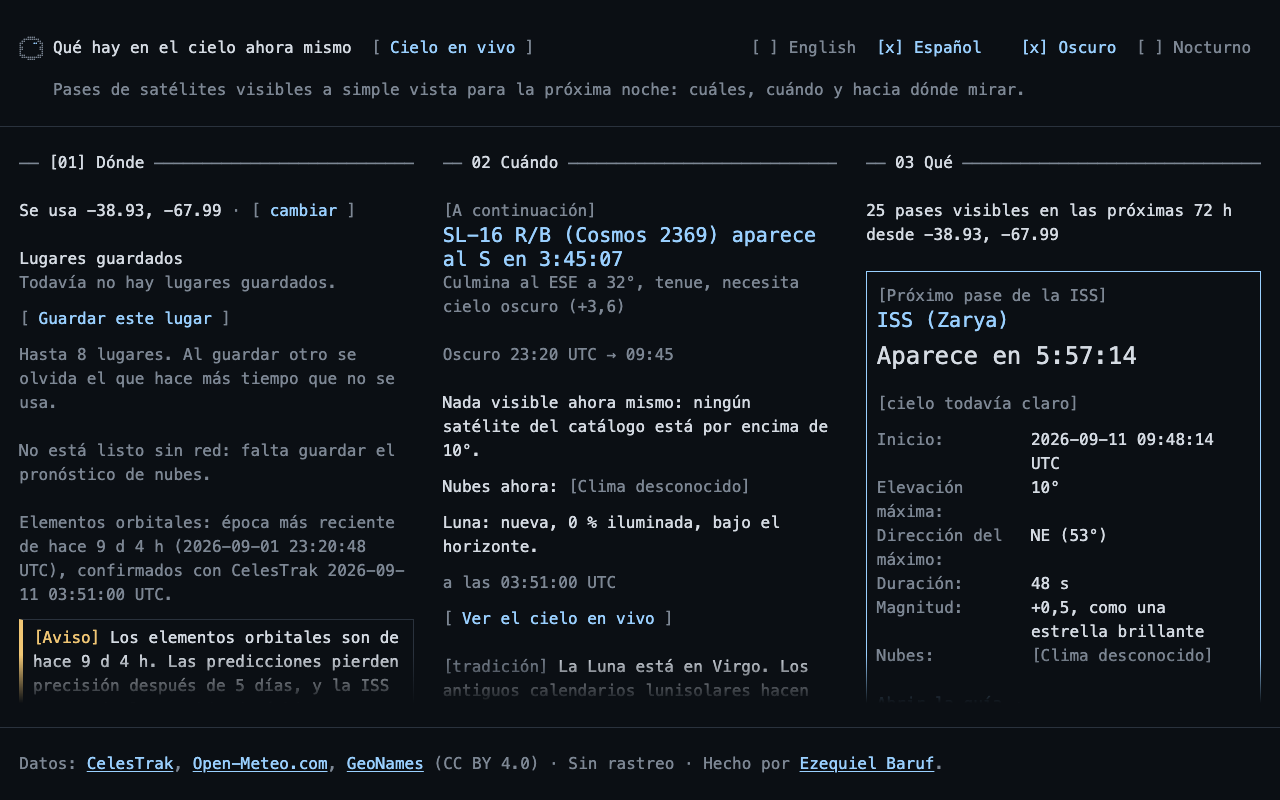
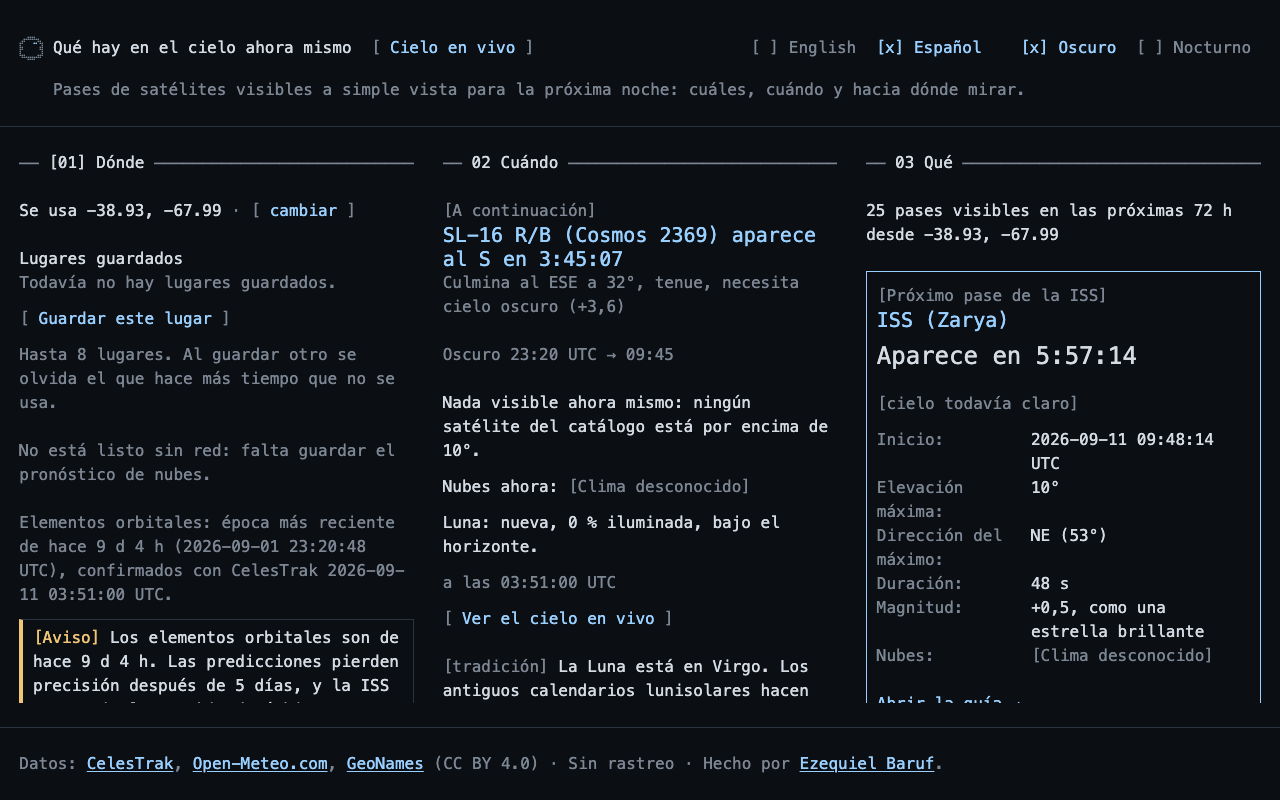
R76: withdraw the pane fade — it pushed CI's e2e past the ten-minute cap (D-503)

Changed region(s): [[0.3438, 0.8125, 0.625, 0.875], [0.0, 0.8438, 0.3125, 0.875]]

diff --git a/src/ui/App.module.css b/src/ui/App.module.css
@@ -266,22 +266,6 @@
     display: none;
   }
 
-  /* At the owner's gate: a pane that scrolls itself was cut at the footer's
-     rule mid-sentence, with nothing to say there was more. Where the browser
-     has scroll-driven animations the last two rows of a pane with more below
-     fade out, and fade back in as the reader reaches its end; where it has
-     not, the pane is as it was. The fade is a mask, so it is the text that
-     fades and not a colour laid over it, and it holds in both themes. */
-  @supports (animation-timeline: scroll()) {
-    .where,
-    .when,
-    .main[data-home='readings'] .listColumn {
-      mask-image: linear-gradient(to bottom, #000 calc(100% - var(--pane-fade)), transparent);
-      animation: pane-end linear both;
-      animation-timeline: scroll(self);
-    }
-  }
-
   .main[data-guide='pane'] [data-guide-panel] {
     grid-column: 1 / span 2;
     grid-row: 1;
@@ -319,25 +303,3 @@
   }
 }
 
-/* The fade's depth, animated from two rows to none across a pane's scroll. A
-   pane with nothing to scroll has an inactive timeline, so the animation does
-   not apply and the depth is its initial value: no fade. */
-@property --pane-fade {
-  syntax: '<length>';
-  inherits: false;
-  initial-value: 0px;
-}
-
-@keyframes pane-end {
-  from {
-    --pane-fade: calc(2 * var(--row));
-  }
-
-  95% {
-    --pane-fade: calc(2 * var(--row));
-  }
-
-  to {
-    --pane-fade: 0px;
-  }
-}

diff --git a/PLAN.md b/PLAN.md
@@ -696,7 +696,7 @@ These plan SPEC v2.0 (V20-1..V20-13). §16.15 reserved R73's block to D-437; v2.
 
 - **D-502 — The next event counts down on a clock, not in minutes.** (FR-FIRST-3, D-442, at the owner's gate.) D-442 said the block reuses `formatCountdown`, which rolls hours into minutes: a pass 3 h 45 min away read "in 225:07" while the hero card on the same page read "5:57:14" for its own. The block now uses `lib/format.formatClockDuration` — "m:ss" under an hour, "h:mm:ss" above — so the two readings agree, and the live page's headline (R77) inherits it from the same component. `formatCountdown` is unchanged and still the Now panel's, whose countdown is the minutes a pass has left. `nextEvent.test.ts` pins an instant hours out, and `home.spec.ts`'s headline pattern takes the optional hour field.
 
-- **D-503 — The home screens are aligned to board 1B's drawing where the spec leaves the drawing open.** (FR-FIRST-1, FR-FIRST-2, FR-FIRST-4, FR-FIRST-5, D-471, at the owner's gate.) The owner compared the R76 captures with the redesign's board 1B and found the screens unaligned; everything below is layout and none of it changes a requirement, a string or how a component writes the store. **The primary action is one button**: label and note inside one full-width box with the accent's border, where a box had been drawn round a smaller bracketed button; the accessible name stays the label (`aria-label`) and the note stays its description. **The alternatives are boxes**: the place field and the coordinates each in a ruled box with the label dim inside, the fields their box's full width, and the altitude beside the coordinates with a visible `m` and its label read rather than shown (`PlacePicker` and `CoordsInput` gain a placement-only `boxed`, D-461's rule). **The three are one grid** of 30-cell columns, so on a desk the cold open stands them in one row with their tops and bottoms aligned — FR-FIRST-2's "beside it on wide" — and in a phone or a 36-cell pane they stack at one width. **The wide cold open is 108 cells wide, centred, with its head and foot centred**: at 80 cells the pair stacked beside the button and the column was 104 px taller than 1280 × 800 leaves, so the two foot notes FR-FIRST-1 requires were under the footer. **The question is one row a line**, the sentence half a row under it, and the next-event headline one row a line. **The inner headings are read, not drawn** (D-471 kept them for their names): `Right now`, `Moon tonight` and `Upcoming passes` are visually hidden inside a reading, which is `position: relative` so the hidden heading cannot stand outside a column that scrolls itself. **A pane with more below fades its last two rows** where the browser has scroll-driven animations, and not where it has not. **The saved places lose their top margin** in the Where pane and in the group, where the grid's gap already is that row. **The wide header** puts the title, `[ Live sky ]` and the preferences on one baseline and gives the tagline its own row across the header, so it is one line at 1280 and 1024 px in English (it was two). Out of this decision and left to the owner: the cold open's height on a phone (the hero mark and the tagline are FR-FIRST-1's; the page is 1386 px at 390 × 844), the precision note repeating the question's sentence, and the order and weight of the readings' contents, which FR-FIRST-3..6 fix.
+- **D-503 — The home screens are aligned to board 1B's drawing where the spec leaves the drawing open.** (FR-FIRST-1, FR-FIRST-2, FR-FIRST-4, FR-FIRST-5, D-471, at the owner's gate.) The owner compared the R76 captures with the redesign's board 1B and found the screens unaligned; everything below is layout and none of it changes a requirement, a string or how a component writes the store. **The primary action is one button**: label and note inside one full-width box with the accent's border, where a box had been drawn round a smaller bracketed button; the accessible name stays the label (`aria-label`) and the note stays its description. **The alternatives are boxes**: the place field and the coordinates each in a ruled box with the label dim inside, the fields their box's full width, and the altitude beside the coordinates with a visible `m` and its label read rather than shown (`PlacePicker` and `CoordsInput` gain a placement-only `boxed`, D-461's rule). **The three are one grid** of 30-cell columns, so on a desk the cold open stands them in one row with their tops and bottoms aligned — FR-FIRST-2's "beside it on wide" — and in a phone or a 36-cell pane they stack at one width. **The wide cold open is 108 cells wide, centred, with its head and foot centred**: at 80 cells the pair stacked beside the button and the column was 104 px taller than 1280 × 800 leaves, so the two foot notes FR-FIRST-1 requires were under the footer. **The question is one row a line**, the sentence half a row under it, and the next-event headline one row a line. **The inner headings are read, not drawn** (D-471 kept them for their names): `Right now`, `Moon tonight` and `Upcoming passes` are visually hidden inside a reading, which is `position: relative` so the hidden heading cannot stand outside a column that scrolls itself. A fade on a pane with more below it, as a scroll-driven mask, was tried and withdrawn: in CI's software compositor it slowed the e2e stage from 4 min 42 s to past the ten-minute cap on two runs, and `theme.spec.ts`'s frame sampling at 1280 × 720 hung to its 90 s timeout; a pane that overflows is left to the lighter pane contents of SPEC v2.0.2. **The saved places lose their top margin** in the Where pane and in the group, where the grid's gap already is that row. **The wide header** puts the title, `[ Live sky ]` and the preferences on one baseline and gives the tagline its own row across the header, so it is one line at 1280 and 1024 px in English (it was two). Out of this decision and left to the owner: the cold open's height on a phone (the hero mark and the tagline are FR-FIRST-1's; the page is 1386 px at 390 × 844), the precision note repeating the question's sentence, and the order and weight of the readings' contents, which FR-FIRST-3..6 fix.
 
 - **D-501 — The header row aligns on the title's baseline, not the mark's.** (FR-COMP-1, FR-DESK-2 as amended, FR-MARK-4.) `.brand` is the mark and the title as one flex group, and the row aligns on that group's baseline. The mark's two layers are absolutely positioned, so its box holds no line of its own and its baseline is its bottom edge — seven pixels below the title's. Both headers drew their controls against that: `[ live ] [ settings ]` at 390 px and `[ Live sky ]` at 1280 px sat seven pixels under the words they read beside. `.brand` now aligns on the baseline itself, which makes the title the one item in it carrying one, and the mark takes `align-self: center` to stand where D-441 puts it. `settings.spec.ts` measures the drawn text at both widths — the ranges, not the boxes, since a bracketed control's 48 px tap box never agrees with a heading's line.
 
